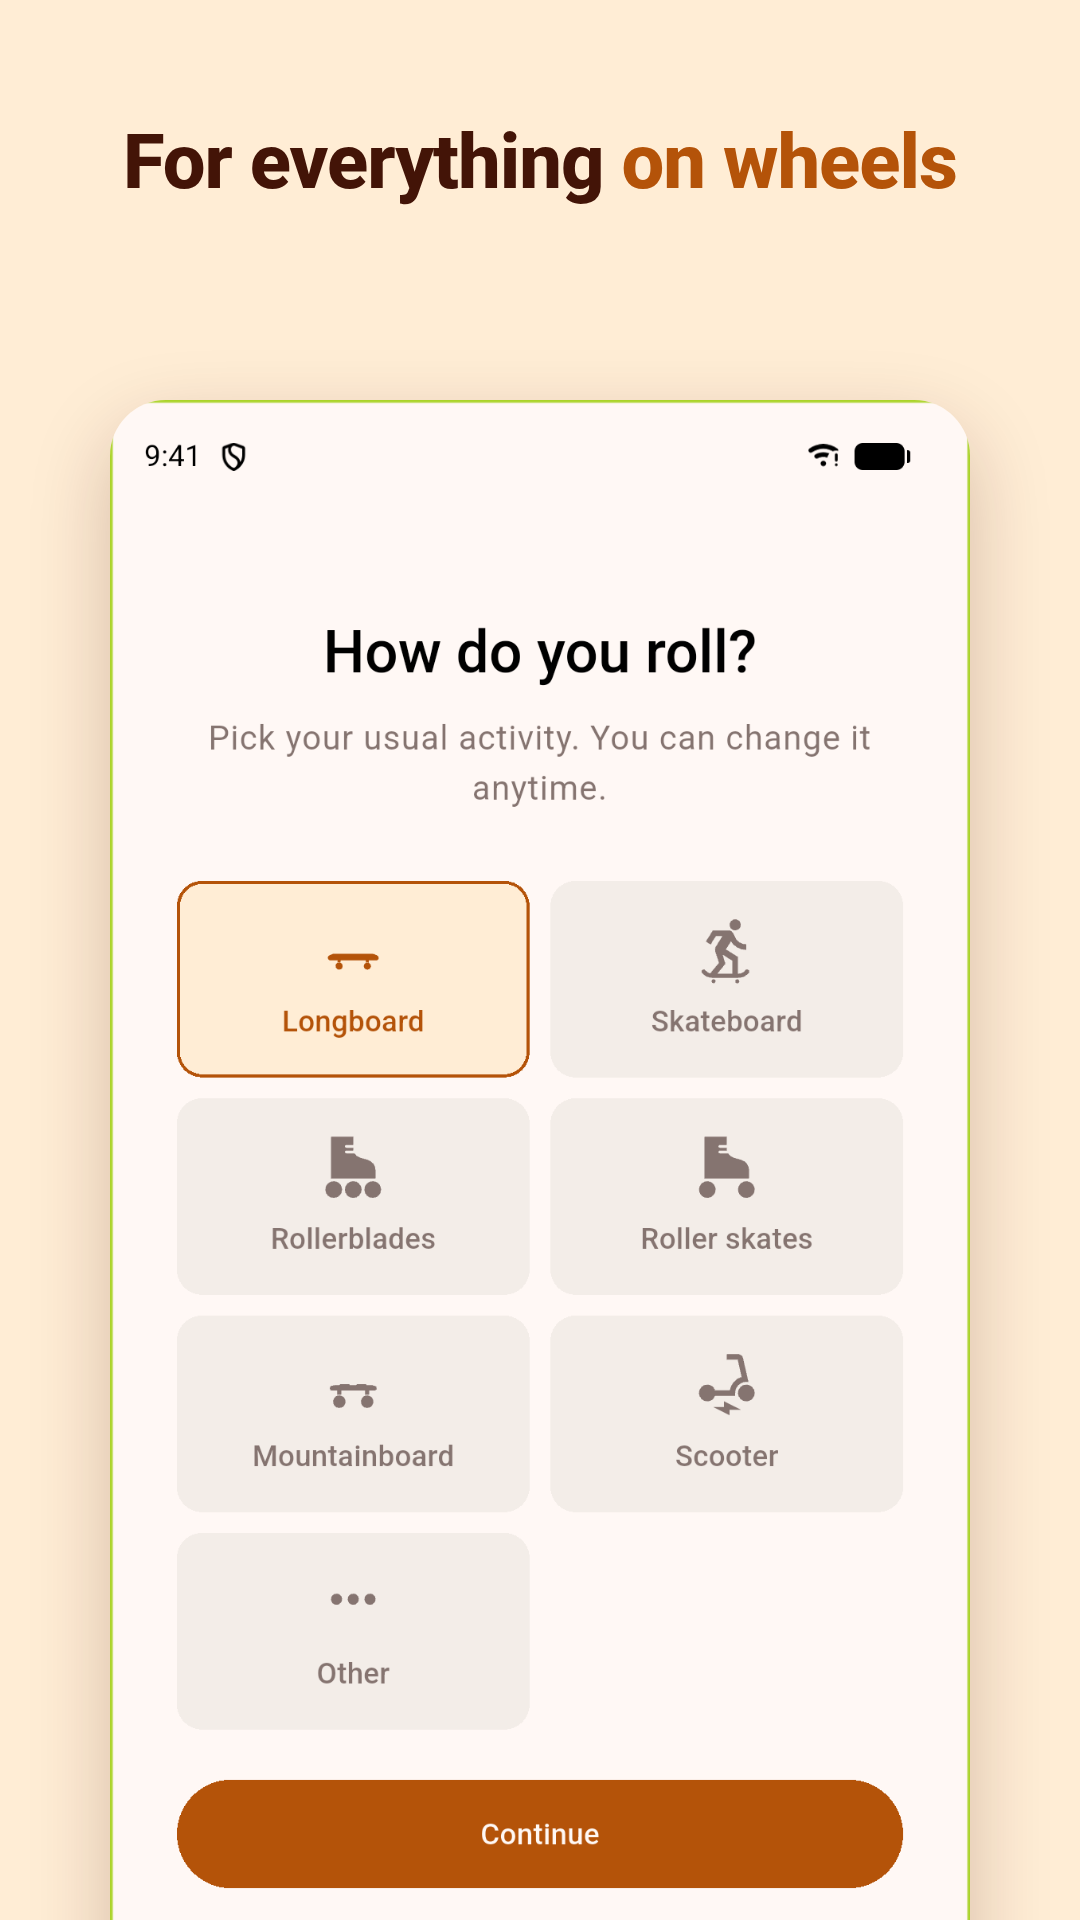
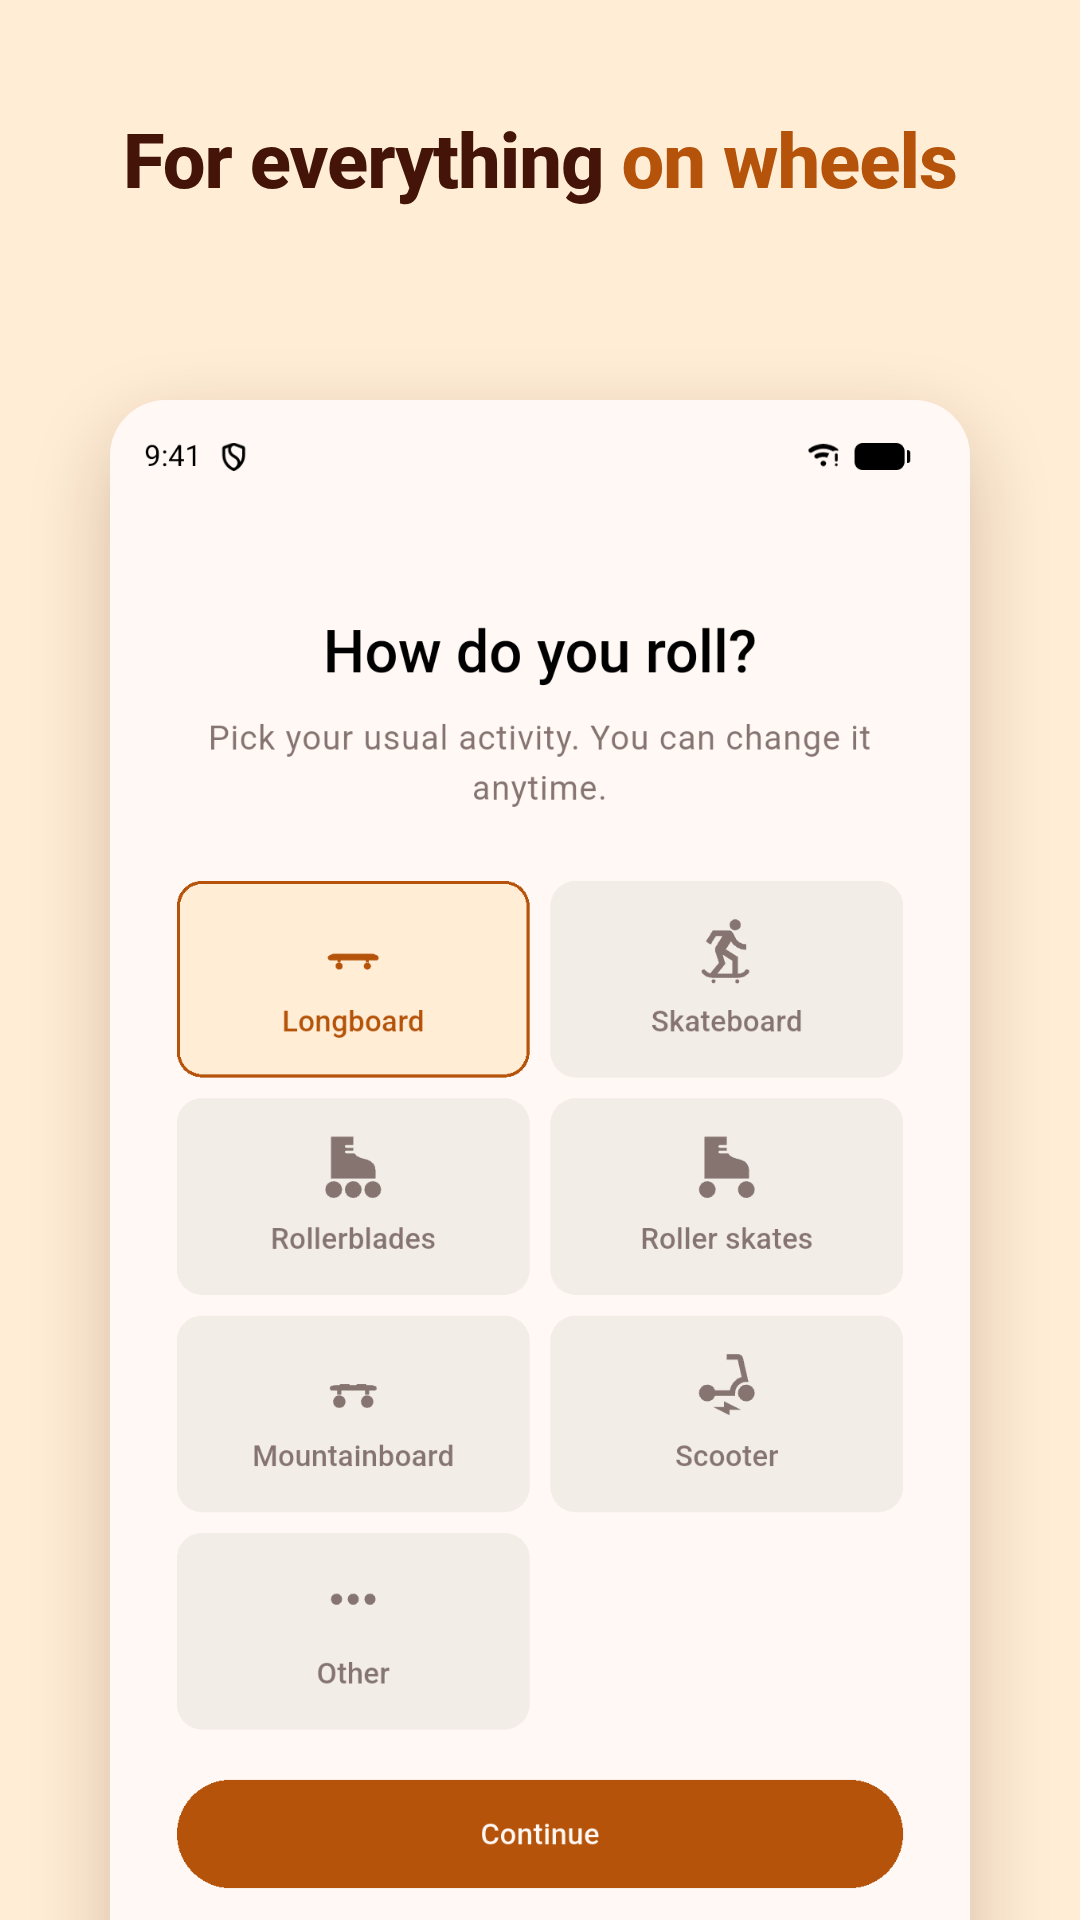
docs: add plain recording to the play screenshots (#45)
Normal tracking leads the set, following a route comes second; the
countdown is left out. English onboarding shots retaken without the
emulator's green edge.

diff --git a/docs/play-store.md b/docs/play-store.md
@@ -243,7 +243,7 @@ Made with `tool/render_store_graphics.sh` (sources and output in `store/play/`):
 | App icon | `store/play/icon_512.png` | 512 × 512 PNG, 32-bit, ≤ 1 MB — from `assets/branding/app_icon.png` |
 | Feature graphic | `store/play/feature_graphic_en.png`, `…_de.png` | 1024 × 500 PNG, no alpha — source `store/play/feature_graphic.html` (tagline + chips per language) |
 
-| Phone screenshots | `store/play/screenshots/<lang>/01_ride.png` … `08_welcome.png` | 8 per language, 1080 × 1920, captions in `store/play/screenshots.tsv`, frame `store/play/screenshot_frame.html` |
+| Phone screenshots | `store/play/screenshots/<lang>/01_track.png` … `08_welcome.png` (recording, follow, history, detail, home, dark recording, activities, welcome) | 8 per language, 1080 × 1920, captions in `store/play/screenshots.tsv`, frame `store/play/screenshot_frame.html` |
 
 **How the screenshots are made** (no real location data anywhere):
 
